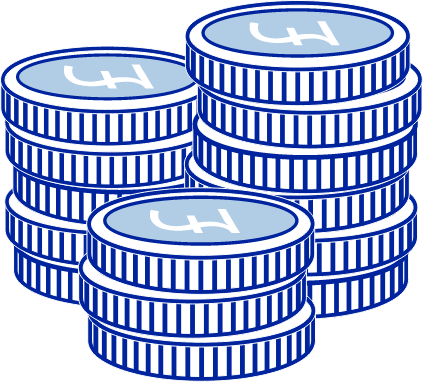
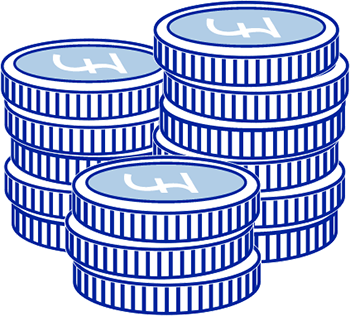
Reduce sizes

diff --git a/_sass/template/header-image.scss b/_sass/template/header-image.scss
@@ -139,6 +139,7 @@
       flex-wrap: wrap;
     }
   }
+  $padding: 65px;
   &__left {
     justify-content: center;
     flex-direction: column;
@@ -149,6 +150,9 @@
     @include in_size($mobile) {
       padding: 0;
       flex: 1 1 100%;
+    }
+    picture{
+      padding: $padding $padding $padding 0;
     }
   }
   &__right {
@@ -167,6 +171,7 @@
       display: flex;
       align-items: center;
       justify-content: flex-end;
+      padding: $padding 0 $padding $padding;
     }
     img {
       float: right;

diff --git a/_sass/vars.scss b/_sass/vars.scss
@@ -11,10 +11,10 @@ $colour_error: #cc0000;
 /*Fonts*/
 $font_primary: objektiv-mk2, sans-serif;
 $body_font_weight: 300;
-$body_font_size: 20px;
-$header_image_title_size: 50px;
-$strip_title_size: 40px;
-$strip_title_size_mobile: 32px;
+$body_font_size: 18px;
+$header_image_title_size: 45px;
+$strip_title_size: 35px;
+$strip_title_size_mobile: 28px;
 
 /*Misc*/
 $strip_padding: 40px 0 60px;
